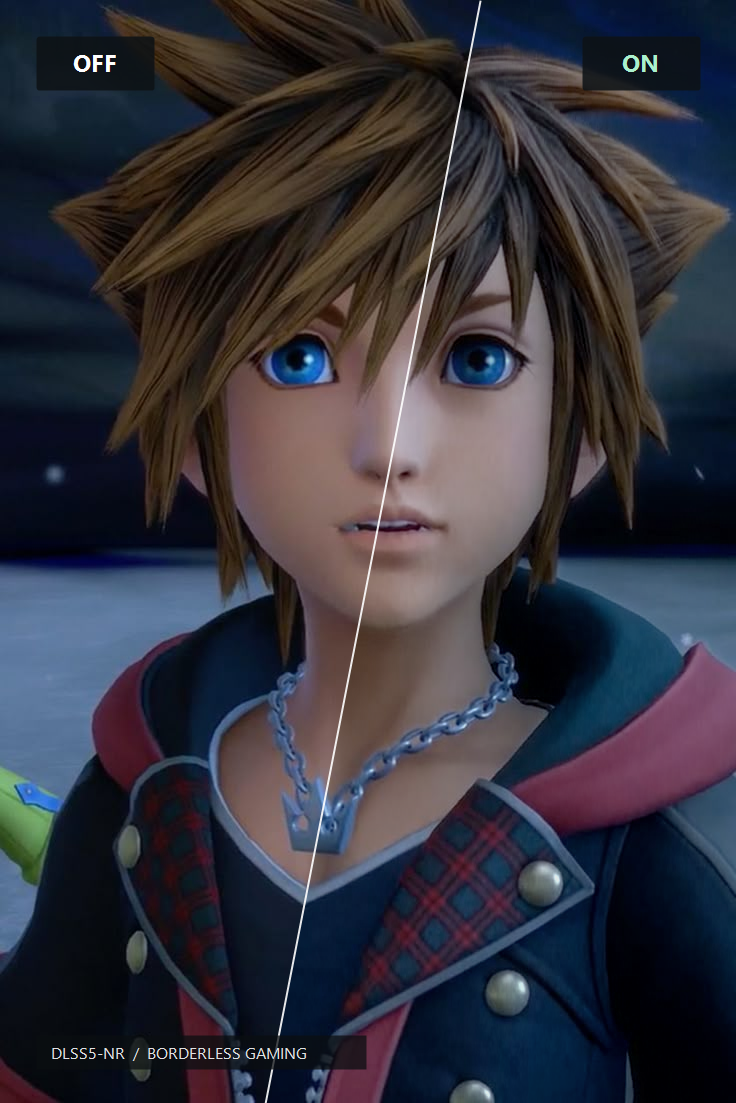
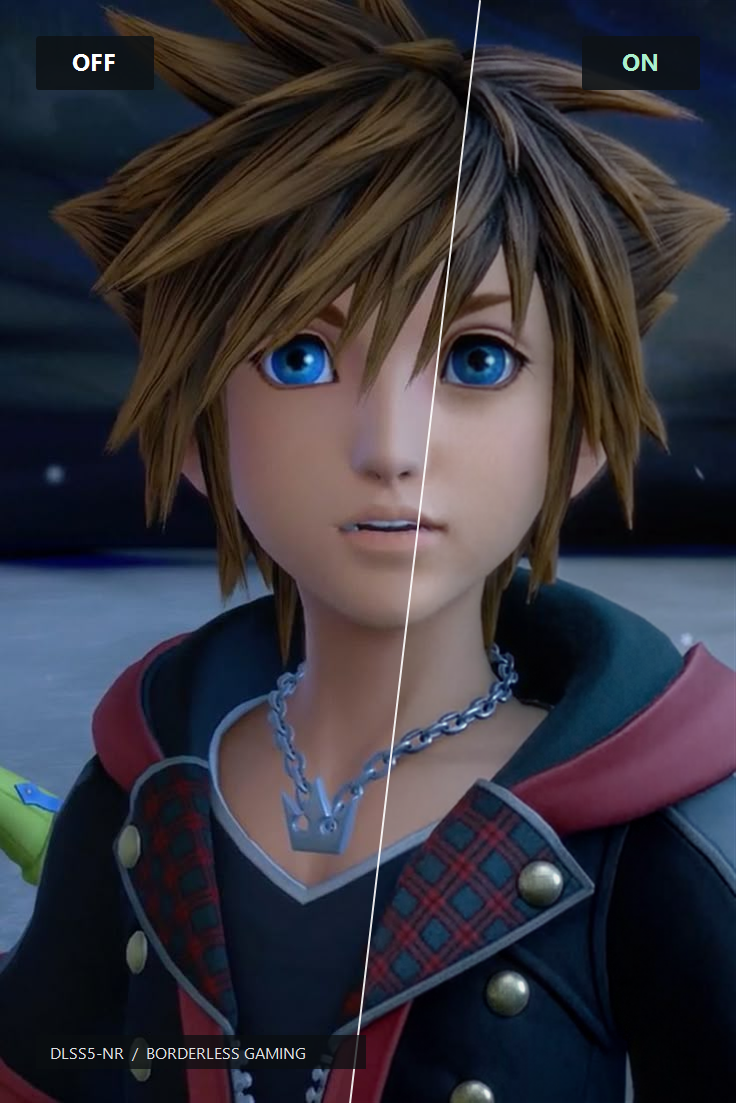
Update NR package screenshots and resolution controls

diff --git a/README.md b/README.md
@@ -22,7 +22,7 @@ Bring a new look to familiar games. DLSS5 neural rendering, optimized for Border
     <td align="center">Sora</td>
   </tr>
   <tr>
-    <td colspan="3" align="center">OFF / ON · Strength 1 · Local tone 1.5 · Structure 2 · Natural</td>
+    <td colspan="3" align="center">OFF / ON · Strength 1 · Local tone 1.5 · Structure 2 · Natural · Resolution 950</td>
   </tr>
 </table>
 
@@ -34,13 +34,4 @@ Bring a new look to familiar games. DLSS5 neural rendering, optimized for Border
 
 The download includes the compiled effect, weights and preset. Nothing to compile, no separate AI runtime to install. You can also add Neural Rendering to an existing effect chain.
 
-## Performance
-
-The effect adjusts lighting, tone and structure while keeping your game's output resolution. Speed depends on your GPU:
-
-| GPU | DirectX 12 | Vulkan |
-| --- | ---: | ---: |
-| RTX 3090 | 8.4 ms | 10.6 ms |
-| Steam Deck | — | 99.6 ms |
-
-Median inference time, excluding the game and presentation. Leave GPU headroom; Steam Deck isn't fast enough for real-time play with this effect. Stronger settings can introduce artifacts.
+Use **Inference resolution** to set the processing size. It defaults to 950 pixels on the longest edge, preserves the image's proportions and leaves smaller inputs alone. Your display resolution stays unchanged.
